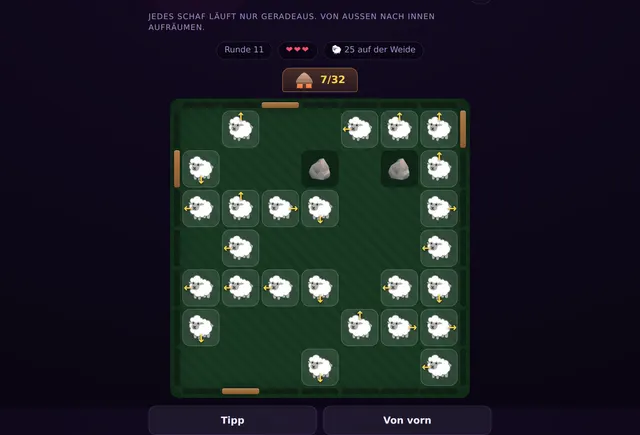
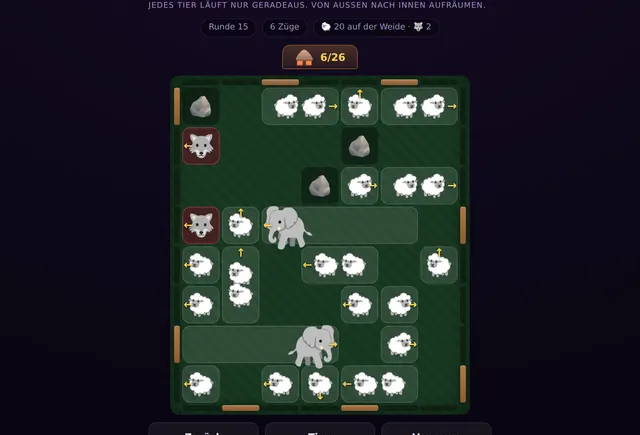
Schafstall: Kachel, Bild und Proben auf das Schiebespiel nachgezogen
Das Spiel selbst liegt in seinem eigenen Repo. Hier steht nach, was der Rahmen
davon zeigt: die Kachel erklaert jetzt das Schieben, den Wolf, Gespann und
Elefant, und dass es keine Leben mehr gibt, sondern Zurueck und Von vorn.

Das Kachelbild kommt aus Runde 15 statt aus Runde 11 - erst dort steht alles
gleichzeitig auf der Weide. Dafuer braucht die Aufnahme 800 statt 680 Pixel
Hoehe: acht Reihen passen sonst nicht ins Bild. Die kleine Fassung schneidet
oben und unten je sechzig weg, dort steht nur Logo und Fusszeile.

pruefe-statisch.mjs sucht `.tier` statt `.schaf` - Woelfe und Elefanten sind
keine Schafe mehr.

Changed region(s): [[0.2188, 0.0, 0.7812, 1.0]]

diff --git a/spiele/index.html b/spiele/index.html
@@ -1536,7 +1536,7 @@ footer a { color: inherit; }
 
   <article class="game" style="--accent:#8fe04a; --accent2:#ffd447;"
            data-spiel="schafstall" data-heimat="gruppe-allein" data-platz="6" data-bild="bilder/schafstall-spiel.webp"
-           data-kurz="Eingeklemmte Schafe befreien – jedes läuft nur geradeaus, und jede Weide ist garantiert zu räumen.">
+           data-kurz="Schiebepuzzle mit Schafen: jedes läuft nur geradeaus, bis etwas im Weg steht – und der Wolf frisst, wen er berührt.">
     <button class="info" type="button" aria-label="Wie Schafstall gespielt wird"><span aria-hidden="true">i</span>Anleitung</button>
     <a class="game-link" href="/schafstall/">
       <img class="schnappschuss" src="bilder/klein/schafstall-spiel.webp" alt="Bildschirmfoto aus einer Runde Schafstall"
@@ -1545,8 +1545,8 @@ footer a { color: inherit; }
         <span class="icon" aria-hidden="true">🐑</span>
         <h3>Schafstall</h3>
       </div>
-      <p class="kurz">Eine Weide voller Schafe, die sich gegenseitig im Weg stehen. Von außen nach innen freiräumen, bis alle im Stall sind.</p>
-      <p class="lang">Jedes Schaf schaut in eine Richtung und läuft nur dorthin – wenn der Weg frei ist. Ist er es nicht, kommt es keinen Schritt weit, und das kostet eines von drei Herzen. Also erst die außen, dann die dahinter. Das Feld wächst mit jeder Runde, ab Runde 5 liegen Felsen darauf, ab Runde 10 ist der Rand zugezäunt und es geht nur noch durch die Tore hinaus. Festfahren kann man sich nie: jede Weide wird rückwärts gebaut und ist damit nachweislich zu räumen. Punkte, Runde und Sterne bleiben unter deinem Namen im Browser – mehrere Leute können sich ein Gerät teilen.</p>
+      <p class="kurz">Eine Weide voller Tiere, die sich gegenseitig im Weg stehen. Antippen, laufen lassen, schieben – bis alle im Stall sind.</p>
+      <p class="lang">Jedes Tier schaut in eine Richtung und läuft nur dorthin: bis vor das nächste Hindernis oder ganz aus der Weide hinaus. Damit räumt man von außen nach innen ab – und schiebt, wo es sein muss. Zwei Schafe im Gespann brauchen zwei Zellen, ein Elefant vier, und der Wolf frisst jedes Tier, das ihn berührt; wegjagen lässt er sich trotzdem. Rückwärts läuft keins, also kann man sich festfahren: dafür gibt es Zurück und Von vorn, beides ohne Punktabzug. Jede Weide ist nachweislich zu räumen, mit einem Zug je Tier – genau dafür gibt es drei Sterne. Punkte, Runde und Sterne bleiben unter deinem Namen im Browser; mehrere Leute können sich ein Gerät teilen.</p>
       <div class="meta">
         <span class="dot" data-status></span>
         <span class="tag">allein</span>
@@ -1557,11 +1557,12 @@ footer a { color: inherit; }
     </a>
     <template class="ablauf">
         <li>Namen eintippen – oder „Später“, dann spielt Gast. Die Punkte gehören dem Namen und bleiben in diesem Browser.</li>
-        <li>Ein Schaf antippen: es rennt in die Richtung, in die sein Pfeil zeigt, aus der Weide hinaus und in den Stall.</li>
-        <li>Steht etwas in seiner Bahn – ein anderes Schaf, ein Fels, der geschlossene Zaun –, bleibt es stehen und ein Herz ist weg. Das Hindernis leuchtet kurz auf.</li>
-        <li>Drei Herzen hat eine Runde. Sind sie alle, fängt dieselbe Weide von vorn an; Punkte kostet das keine, nur den Tempobonus.</li>
-        <li>Der Tipp zeigt ein Schaf, das gerade herauskommt – auch er kostet nur den Tempobonus.</li>
-        <li>Alle im Stall: Punkte nach Runde, übrig gebliebenen Herzen und Tempo, dazu bis zu drei Sterne. Die nächste Runde ist größer und voller.</li>
+        <li>Ein Tier antippen: es rennt in die Richtung, in die sein Pfeil zeigt – bis vor das nächste Hindernis, oder aus der Weide hinaus und in den Stall.</li>
+        <li>Der kürzeste Weg ist von außen nach innen: jede Weide lässt sich mit einem einzigen Zug je Tier räumen. Dafür gibt es drei Sterne.</li>
+        <li>Wer schiebt, kann sich festfahren – rückwärts läuft keins. „Zurück“ nimmt Züge zurück, „Von vorn“ stellt die Weide wieder hin. Punkte kostet beides keine.</li>
+        <li>Der Wolf 🐺 lässt sich wegjagen wie jedes andere Stück, aber berühren darf er nichts: läuft ein Tier gegen ihn, ist es weg und die Runde fängt von vorn an.</li>
+        <li>Ab Runde 4 laufen zwei Schafe im Gespann, ab 6 liegen Felsen herum, ab 8 kommt der Wolf, ab 10 ist der Rand zugezäunt, ab 12 steht ein Elefant im Weg.</li>
+        <li>Alle im Stall: Punkte nach Runde, gesparten Zügen und Tempo, dazu bis zu drei Sterne. Die nächste Runde ist größer und voller.</li>
     </template>
   </article>
 </main>
